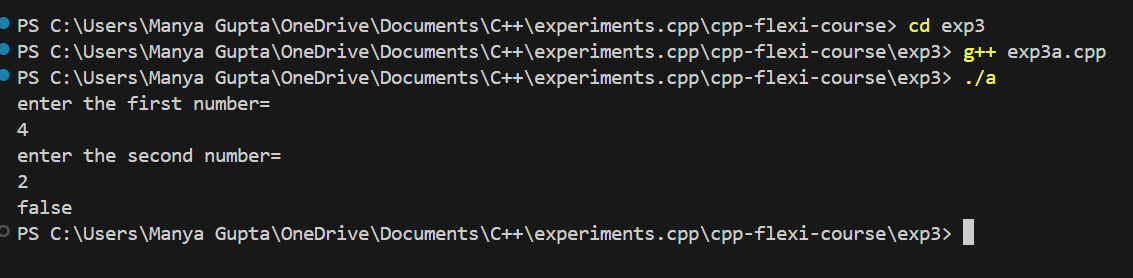
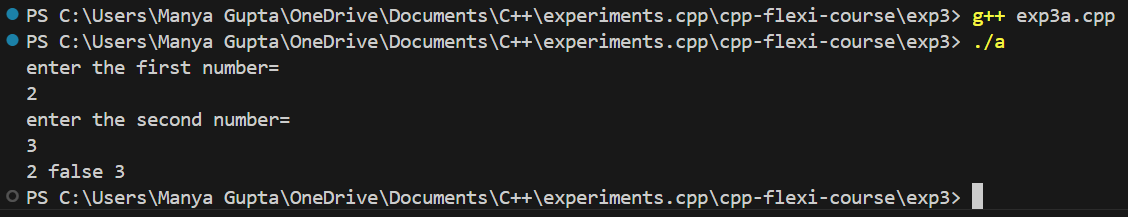
modified code

diff --git a/exp3/exp3a.cpp b/exp3/exp3a.cpp
@@ -1,10 +1,13 @@
-#include<iostream>
+#include <iostream>
 using namespace std;
-int main(){
-    int a,b;
-    cout<<"enter the first number= "<<endl;
-    cin>>a;
-    cout<<"enter the second number="<<endl;
-    cin>>b;
-    cout<<boolalpha<<(a==b);
+int main()
+{
+    int a, b;
+    //----input the elements----
+    cout << "enter the first number= " << endl;
+    cin >> a;
+    cout << "enter the second number=" << endl;
+    cin >> b;
+    //----display output----
+    cout << a << " " << boolalpha << (a == b) << " " << b;
 }

diff --git a/exp3/exp3b.cpp b/exp3/exp3b.cpp
@@ -1,7 +1,10 @@
-#include<iostream>
+#include <iostream>
 using namespace std;
-int main(){
-    bool a= true;
-    bool b= false;
-    cout<<boolalpha<<(!b);
+int main()
+{
+    //----intitializing boolean values----
+    bool a = true;
+    bool b = false;
+    //---inverting the bool value---
+    cout << b << " after inversion= " << boolalpha << (!b);
 }

diff --git a/exp3/exp3c.cpp b/exp3/exp3c.cpp
@@ -3,6 +3,7 @@
 using namespace std;
 int main(){
     int a,b;
+    //---input for numbers---
     cout<<"enter the first number= "<<endl;
     cin>>a;
     cout<<"enter the second number="<<endl;
